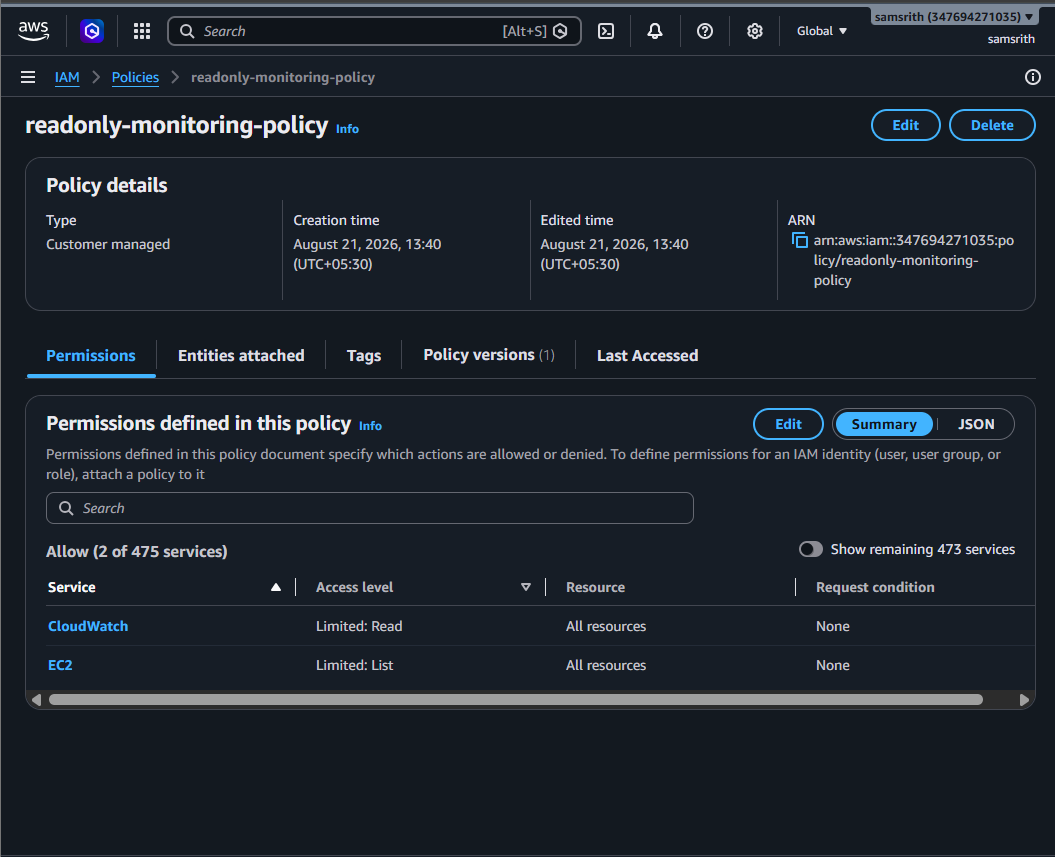
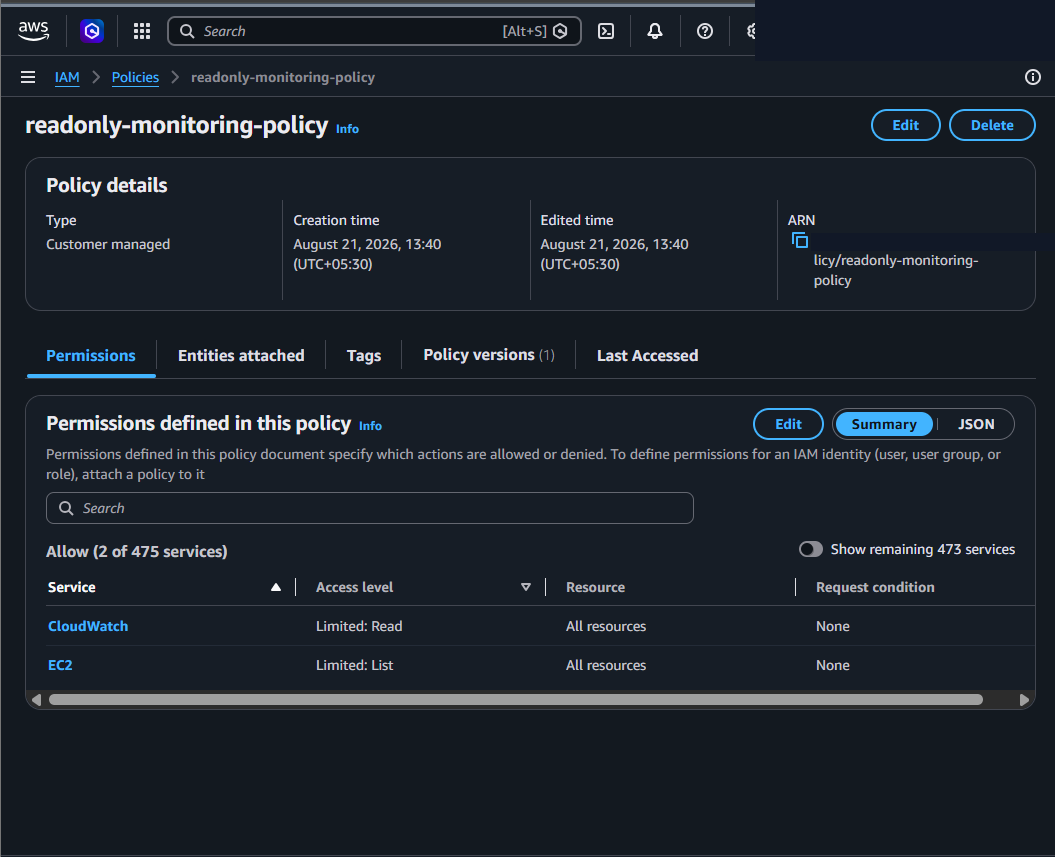
Make AWS portfolio safe and recruiter-ready (#1)
Rewrite the portfolio documentation, harden the EC2 user-data script, and replace all 27 screenshots with validated redacted copies.

Changed region(s): [[0.6976, 0.0, 1.0, 0.0607], [0.7583, 0.273, 0.9706, 0.3034]]

diff --git a/README.md b/README.md
@@ -1,266 +1,109 @@
-# Secure & Monitored AWS EC2 Web Infrastructure
+# Secure and Monitored AWS EC2 Web Infrastructure
 
-A hands-on AWS cloud infrastructure project focused on secure networking, IAM role-based access, monitoring, alerting, auditing, and network traffic visibility.
+A hands-on AWS portfolio lab demonstrating network segmentation, role-based service access, infrastructure monitoring, alerting, audit logging, and network-flow visibility around an Amazon Linux EC2 web server.
 
-
-## Project Highlights
-
-- Built a custom AWS VPC with public and private subnets
-- Deployed an Amazon Linux EC2 web server in the public subnet
-- Applied least-privilege IAM with role-based access
-- Restricted SSH and controlled application traffic using Security Groups
-- Configured CloudWatch monitoring, alarms, and dashboards
-- Integrated SNS email notifications for operational alerts
-- Enabled CloudTrail auditing with S3 log storage
-- Enabled VPC Flow Logs and verified both ACCEPT and REJECT traffic
-- Tested monitoring by intentionally generating high CPU utilization
-- Cleaned up AWS resources after completing the project
-
-## AWS Services Used
-
-`Amazon VPC` · `Amazon EC2` · `AWS IAM` · `Security Groups` · `Amazon CloudWatch` · `Amazon SNS` · `AWS CloudTrail` · `Amazon S3` · `VPC Flow Logs`
-
-## Architecture Summary
-
-``text
-Internet
-   ↓
-Internet Gateway
-   ↓
-Public Subnet
-   ↓
-EC2 Web Server
-   ↓
-IAM Role → AWS Services
-
-EC2 Metrics
-   ↓
-CloudWatch → Alarms → SNS → Email
-
-AWS API Activity
-   ↓
-CloudTrail → S3
-
-VPC Traffic
-   ↓
-VPC Flow Logs → CloudWatch Logs``
-
-
-## Project Overview
-
-This project demonstrates how multiple AWS services work together to build a secure and monitored EC2-based web infrastructure.
-
-The environment includes:
-
-- Custom VPC
-- Public and private subnets
-- Internet Gateway
-- Public route table
-- Amazon EC2 web server
-- Security Groups
-- IAM role-based access
-- Amazon CloudWatch
-- Amazon SNS
-- AWS CloudTrail
-- Amazon S3
-- VPC Flow Logs
+> This is a learning environment built manually in the AWS console, not a production deployment or an Infrastructure-as-Code template. All billable resources were removed after validation.
 
 ## Architecture
 
-[Architecture Flow]
+![AWS infrastructure architecture](architecture/architecturees.jpg)
 
-- Internet → Internet Gateway → Public Route Table → Public Subnet → EC2
-- EC2 → IAM Role → S3 / CloudWatch
-- EC2 Metrics → CloudWatch → Alarms → SNS → Email
-- AWS API Activity → CloudTrail → S3
-- VPC Traffic → VPC Flow Logs → CloudWatch Logs
+### Network layout
 
-## Security Design
+- VPC: `10.0.0.0/16`
+- Public subnet: `10.0.1.0/24`
+- Private subnet: `10.0.2.0/24`
+- Internet Gateway and public route table for the public subnet
+- Amazon Linux 2023 EC2 instance with Apache in the public subnet
+- Security Group rules for HTTP and restricted administrative access
+- Private-subnet Security Group design for MySQL access from the web-server Security Group
 
-- SSH access restricted
-- HTTP allowed for the web server
-- Private resources protected using a separate security group
-- MySQL access allowed only from the web-server security group
-- IAM role used instead of hard-coded AWS credentials
-- Least-privilege PassRole permissions used during deployment
+The private subnet was created to demonstrate segmentation; no private EC2 or database workload was launched.
 
-## Monitoring and Alerting
+## AWS services used
 
-CloudWatch was used to monitor:
+- Amazon VPC and Security Groups
+- Amazon EC2
+- AWS Identity and Access Management (IAM)
+- Amazon CloudWatch
+- Amazon Simple Notification Service (SNS)
+- AWS CloudTrail
+- Amazon S3
+- VPC Flow Logs and CloudWatch Logs
 
-- CPU utilizon
-- Network traffic
-- EC2 status checks
-- Billing threshold
+## What I implemented
 
-Configured alarms:
+### 1. EC2 web server
+
+Launched an Amazon Linux 2023 instance and installed Apache through EC2 user data. The script requests an IMDSv2 token before reading the instance ID, Availability Zone, and instance type for the demonstration page.
+
+### 2. IAM role-based access
+
+Attached an EC2 instance role so the server could call approved AWS services without storing access keys on the instance. The lab role used `AmazonS3ReadOnlyAccess` and `CloudWatchAgentServerPolicy`.
+
+The administrative IAM user used broad AWS-managed permissions while building the lab. This is acceptable only in a disposable learning account. A production implementation should replace those permissions with task-specific policies. The repository includes a small read-only monitoring policy as a least-privilege exercise.
+
+### 3. Monitoring and notifications
+
+Configured CloudWatch monitoring and three alarms:
 
 - `high-cpu-alarm`
 - `status-check-alarm`
 - `billing-alarm`
 
-Amazon SNS was used to deliver email notifications when alarms entered the ALARM state.
+Connected the operational alarms to an SNS topic and verified an email notification by generating high CPU utilization.
 
-- `AuthorizeSecurityGroupIngress`
-- `StartInstances`
-Verified traffic states:
+### 4. Auditing
 
-- `REJECT`
+Enabled CloudTrail management-event logging with S3 storage. Reviewed events such as `AuthorizeSecurityGroupIngress`, `StartInstances`, and `StopInstances` to understand who performed an action, when it occurred, and which resource was affected.
 
-## Key Learnings
+### 5. Network visibility
 
-- VPC Flow Logs — records allowed and blocked network traffic
+Delivered VPC Flow Logs to CloudWatch Logs and filtered the records to confirm both:
 
-See the `architecture` folder for the project architecture diagram.
+- `ACCEPT` traffic permitted by the network controls
+- `REJECT` traffic blocked by the network controls
 
-## Screenshots
+## Repository structure
 
-## Implementation Screenshots
+| Path | Purpose |
+|---|---|
+| `architecture/` | Infrastructure architecture diagram |
+| `policies/readonly-monitoring-policy.json` | Read-only monitoring policy example |
+| `scripts/user-data.sh` | Apache installation and IMDSv2 metadata page |
+| `screenshots/` | Console evidence captured during implementation and testing |
 
-# 1. IAM User Creation
-Created the `infra-admin` IAM user for day-to-day project administration.
+## Troubleshooting performed
 
-# 2. MFA Security
-Enabled MFA for the IAM user to improve account security.
+- Identified that EC2 permissions do not automatically grant IAM permissions.
+- Learned how `iam:PassRole` controls whether an identity can attach a role to an AWS service.
+- Used an EC2 role instead of placing long-term AWS credentials on the instance.
+- Corrected EC2 Instance Connect access by using the appropriate AWS-managed prefix-list source.
+- Generated CPU load to test the complete CloudWatch alarm-to-SNS notification path.
+- Created a dedicated delivery role for VPC Flow Logs and verified the resulting log records.
 
-# 3. EC2 IAM Role
-Created the EC2 web server role and attached the required permission policies.
+## Security notes
 
-# 4. Custom VPC
-Created a custom VPC with separate public and private subnets.
+- MFA was enabled for the lab IAM user.
+- No private key, secret access key, password, or `.env` file is stored in this repository.
+- The `.gitignore` excludes common credential-file formats.
+- Public screenshots redact AWS account IDs, ARNs, public IP addresses, temporary access-key IDs, and resource IDs while preserving implementation evidence.
 
-# 5. Public Subnet
-Configured the public subnet for internet-facing resources.
+## Cleanup
 
+After collecting the implementation evidence, I removed the EC2 instance, networking components, alarms, dashboard, trail, Flow Logs, log groups, and related storage resources to prevent further charges.
 
-# 6. Private Subnet
-Created a private subnet to demonstrate network segmentation.
+## Key learning
 
-# 7. Internet Gateway
-Attached an Internet Gateway to the custom VPC.
+This project helped me distinguish between complementary AWS operational controls:
 
-# 8. Public Route Table
-Configured the public route table with a default route through the Internet Gateway.
+- **Security Groups** control network access.
+- **IAM roles and policies** control AWS API permissions.
+- **CloudWatch** monitors infrastructure health.
+- **SNS** delivers notifications.
+- **CloudTrail** records AWS API activity.
+- **VPC Flow Logs** record allowed and rejected network traffic.
 
-# 9. Security Groups
-Configured inbound rules for HTTP, restricted SSH, and private resource access.
+## Status
 
-# 10. EC2 Instance
-Launched the Amazon Linux web server in the public subnet.
-
-# 11. IAM Role Verification from EC2
-Verified role-based access using `aws s3 ls` and `aws sts get-caller-identity`.
-
-# 12. EC2 Webpage
-Verified the Apache webpage running from the EC2 instance and displaying instance metadata.
-
-# 13. CloudWatch Alarms
-Configured CPU, status-check, and billing alarms.
-
-# 14. CPU Alarm Test
-Generated high CPU usage and verified the alarm entered the ALARM state.
-
-# 15. SNS Email Alert
-Verified that the monitoring alarm triggered an email notification.
-
-# 16. CloudTrail
-Configured AWS CloudTrail for infrastructure auditing.
-
-# 17. CloudTrail Event History
-Reviewed AWS management events recorded by CloudTrail.
-
-# 18. CloudTrail JSON Record
-Reviewed the detailed JSON audit record for a CloudTrail event.
-
-# 19. StartInstances Audit Event
-Verified that starting the EC2 instance was recorded by CloudTrail.
-
-# 20. StopInstances Audit Event
-Verified that stopping the EC2 instance was recorded.
-
-# 21. StopInstances JSON
-Reviewed the full CloudTrail JSON record for the stop-instance action.
-
-# 22. VPC Flow Logs
-Enabled VPC Flow Logs and delivered network records to CloudWatch Logs.
-
-# 23. ACCEPT Traffic
-Verified permitted network connections using ACCEPT flow-log records.
-
-# 24. REJECT Traffic
-Verified blocked network connections using REJECT flow-log records.
-
-# 25. ACCEPT and REJECT Comparison
-Captured both allowed and blocked network activity in the VPC Flow Logs.
-
-# 26. Allowed HTTP Test
-Verified successful HTTP access to the EC2 web server.
-
-# 27. Blocked Port Test
-Verified that traffic to an unauthorized port was blocked.
-
-
-## Challenges & What I Learned
-
-During this project, I ran into several real AWS permission and connectivity issues and learned how to troubleshoot them.
-
-- Learned why `AmazonEC2FullAccess` does not automatically include IAM permissions.
-- Understood how `iam:PassRole` allows a user to attach a specific IAM role to an AWS service without granting full IAM access.
-- Used an EC2 IAM role instead of storing AWS access keys on the instance.
-- Troubleshot EC2 Instance Connect by allowing the correct AWS-managed prefix list for SSH access.
-- Learned how CloudWatch alarms, SNS notifications, and dashboards work together for monitoring.
-- Verified AWS API activity using CloudTrail event history and JSON event records.
-- Configured VPC Flow Logs with a dedicated service role and verified both `ACCEPT` and `REJECT` network traffic.
-- Practiced least-privilege IAM by granting only the permissions required for each task.
-
-### Key Takeaway
-
-This project helped me understand the difference between:
-
-**Security Groups** → control network access 
-**IAM Roles** → control AWS permissions 
-**CloudWatch** → monitors infrastructure health 
-**SNS** → sends alerts 
-**CloudTrail** → records AWS API activity 
-**VPC Flow Logs** → records allowed and blocked network traffic
-
-## Clean Ups
-- VPC and subnet configuration
-- Route table
-- Security groups
-- EC2 instance
-- CloudWatch alarms
-- CloudWatch dashboard
-- CloudTrail events
-- VPC Flow Logs
-
-## Project Status
-
-Completed ✅
-EOFAfter completing the project and capturing all required evidence, the AWS resources were removed to avoid unnecessary charges.
-- IAM role verification
-
-## Architecture Diagram
-
-- CloudWatch — monitors infrastructure health
-- CloudTrail — records AWS account activity
-- SNS — sends notifications
-- IAM Roles — control AWS service permissions
-- Security Groups — control network access
-
-This project helped me understand the difference between:
-- `ACCEPT`
-VPC Flow Logs were enabled for the custom VPC and delivered to CloudWatch Logs.
-
-
-
-## Network Visibility
-CloudTrail logs were stored in Amazon S3.
-
-- `StopInstances`
-Verified events included:
-
-
-AWS CloudTrail was configured to record management activity.
-## Auditing
-
+Lab implementation and cleanup completed. The next improvement is to reproduce the architecture with Infrastructure as Code after strengthening Terraform fundamentals.
